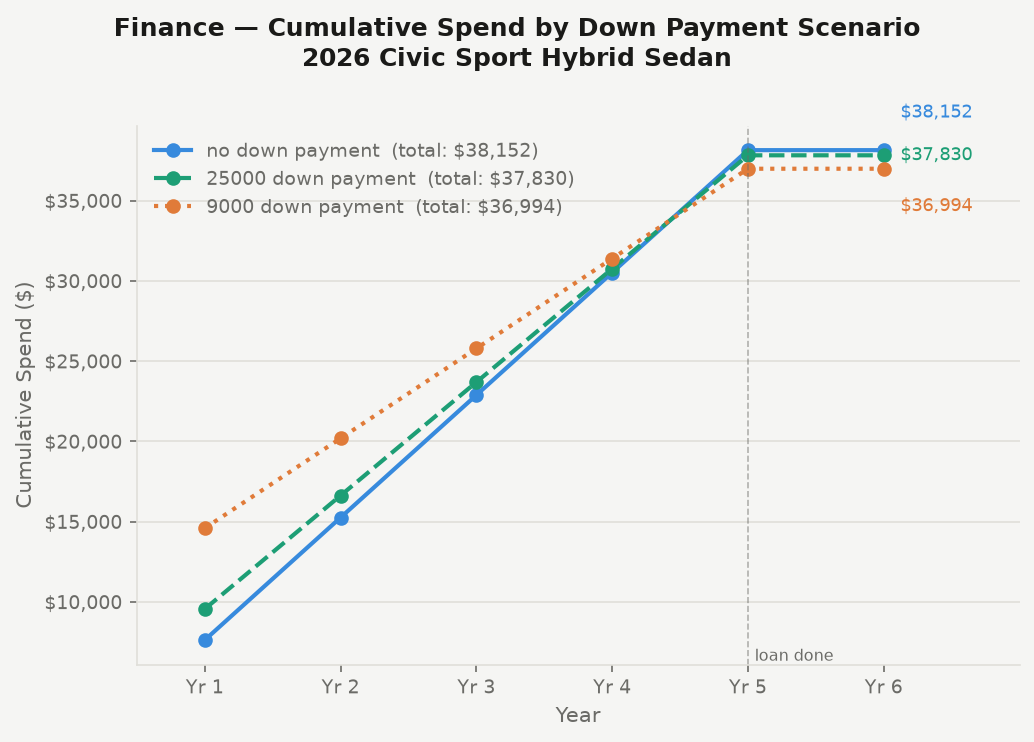
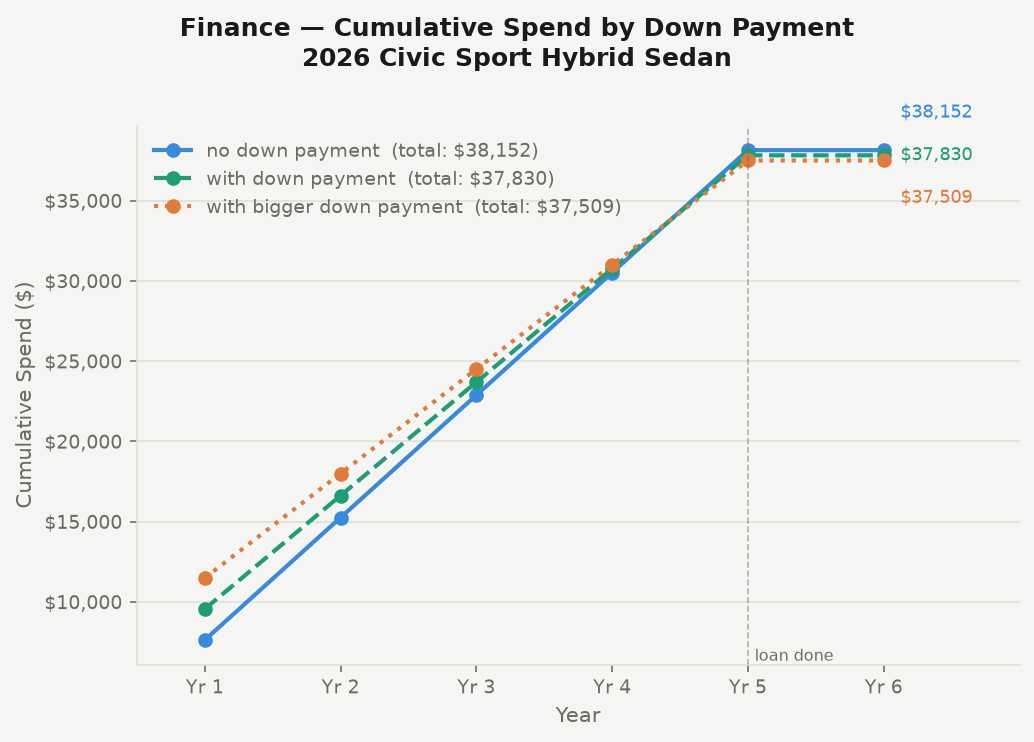
final data, added mileage analysis for a little extra

diff --git a/plotFinances.py b/plotFinances.py
@@ -1,14 +1,12 @@
 """
 plot_finance_scenarios.py
 
-Reads output/yearly_schedule.csv and plots finance cumulative spend over 6 years
-for each scenario, one graph per car model.
+Produces two figures per car model:
+  1. Finance cumulative spend — first 3 scenarios (down payment comparison)
+  2. Lease cumulative spend  — last 2 scenarios (mileage comparison)
 
 Usage:
     python plot_finance_scenarios.py
-
-Output:
-    output/finance_scenarios.png
 """
 
 import csv
@@ -38,52 +36,62 @@ def load_csv(path):
 BASE = os.path.join(os.path.dirname(__file__), "output")
 schedule = load_csv(os.path.join(BASE, "yearly_schedule.csv"))
 
-# ── Organise ──────────────────────────────────────────────────────────────────
+# ── Config ────────────────────────────────────────────────────────────────────
 
-models    = list(dict.fromkeys(r["Model"]    for r in schedule))
-scenarios = list(dict.fromkeys(r["Scenario"] for r in schedule))
+models = list(dict.fromkeys(r["Model"] for r in schedule))
+all_scenarios = list(dict.fromkeys(r["Scenario"] for r in schedule))
+
+# First 3 scenarios → finance comparison
+FINANCE_SCENARIOS = all_scenarios[:3]
+# Last 2 scenarios → lease mileage comparison
+LEASE_SCENARIOS = all_scenarios[-2:]
 
 COLORS = ["#378ADD", "#1D9E75", "#E07B39"]
 STYLES = ["-", "--", ":"]
 
-# ── Plot ──────────────────────────────────────────────────────────────────────
-
-BG   = "#F5F5F3"
-GRID = "#E0DFD9"
-TEXT = "#1A1A18"
+BG    = "#F5F5F3"
+GRID  = "#E0DFD9"
+TEXT  = "#1A1A18"
 MUTED = "#6B6B67"
 
-for model in models:
+# ── Helpers ───────────────────────────────────────────────────────────────────
+
+def get_rows(model, scenario):
+    return sorted(
+        [r for r in schedule if r["Model"] == model and r["Scenario"] == scenario],
+        key=lambda r: r["Year"]
+    )
+
+def plot_figure(model, scenario_list, y_col, title_prefix, file_suffix, vline_label=None, vline_x=None):
     fig, ax = plt.subplots(figsize=(7, 5), facecolor=BG)
     ax.set_facecolor(BG)
+    fig.suptitle(f"{title_prefix}\n{model}", fontsize=12, fontweight="600", color=TEXT)
 
-    fig.suptitle(f"Finance — Cumulative Spend by Down Payment Scenario\n{model}",
-                 fontsize=12, fontweight="600", color=TEXT)
+    n = len(scenario_list)
+    offsets = [18, 0, -18][:n]
 
-    for i, scenario in enumerate(scenarios):
-        rows = sorted(
-            [r for r in schedule if r["Model"] == model and r["Scenario"] == scenario],
-            key=lambda r: r["Year"]
-        )
+    for i, scenario in enumerate(scenario_list):
+        rows = get_rows(model, scenario)
+        if not rows:
+            continue
         years = [int(r["Year"]) for r in rows]
-        cumulative = [r["FinanceCumulative"] for r in rows]
-        final_total = cumulative[-1]
+        values = [r[y_col] for r in rows]
+        final = values[-1]
 
-        ax.plot(years, cumulative,
+        ax.plot(years, values,
                 color=COLORS[i], linestyle=STYLES[i], linewidth=2,
                 marker="o", markersize=6,
-                label=f"{scenario}  (total: ${final_total:,.0f})")
+                label=f"{scenario}  (total: ${final:,.0f})")
 
-        offsets = [18, 0, -18]
-        ax.annotate(f"${final_total:,.0f}",
-                    xy=(years[-1], final_total),
+        ax.annotate(f"${final:,.0f}",
+                    xy=(years[-1], final),
                     xytext=(8, offsets[i]), textcoords="offset points",
                     fontsize=8.5, color=COLORS[i], va="center")
 
-    # Mark loan payoff at year 5
-    ax.axvline(x=5, color=MUTED, linewidth=0.8, linestyle="--", alpha=0.5)
-    ymin = ax.get_ylim()[0]
-    ax.text(5.05, ymin, "loan done", fontsize=7.5, color=MUTED, va="bottom")
+    if vline_x:
+        ax.axvline(x=vline_x, color=MUTED, linewidth=0.8, linestyle="--", alpha=0.5)
+        ax.text(vline_x + 0.05, ax.get_ylim()[0], vline_label or "",
+                fontsize=7.5, color=MUTED, va="bottom")
 
     ax.set_xlabel("Year", fontsize=10, color=MUTED)
     ax.set_ylabel("Cumulative Spend ($)", fontsize=10, color=MUTED)
@@ -98,8 +106,32 @@ for model in models:
     ax.legend(fontsize=9, framealpha=0, labelcolor=MUTED, loc="upper left")
 
     safe_name = model.replace(" ", "_").replace("/", "_")
-    out_path = os.path.join(BASE, f"finance_scenarios_{safe_name}.png")
+    out_path = os.path.join(BASE, f"{file_suffix}_{safe_name}.png")
     plt.tight_layout()
     plt.savefig(out_path, dpi=150, bbox_inches="tight", facecolor=BG)
     print(f"Saved → {out_path}")
     plt.show()
+    plt.close()
+
+# ── Generate figures ──────────────────────────────────────────────────────────
+
+for model in models:
+    # Figure 1: Finance cumulative — first 3 scenarios
+    plot_figure(
+        model=model,
+        scenario_list=FINANCE_SCENARIOS,
+        y_col="FinanceCumulative",
+        title_prefix="Finance — Cumulative Spend by Down Payment",
+        file_suffix="finance_scenarios",
+        vline_x=5,
+        vline_label="loan done",
+    )
+
+    # Figure 2: Lease cumulative — last 2 scenarios (mileage comparison)
+    plot_figure(
+        model=model,
+        scenario_list=LEASE_SCENARIOS,
+        y_col="LeaseCumulative",
+        title_prefix="Lease — Cumulative Spend by Mileage Tier",
+        file_suffix="lease_mileage",
+    )

diff --git a/RetrieveData.py b/RetrieveData.py
@@ -141,13 +141,13 @@ def get_anchor(session, model_name, model_id, annual_mileage):
 
 def estimate_lease2(msrp, down_payment, acquisition_fee, money_factor, residual_pct, taxrate, msrp_inflation=0.04, term=36):
     future_msrp = msrp * (1 + msrp_inflation) ** (term / 12)
-    future_cap_cost = future_msrp - down_payment + acquisition_fee
+    future_cap_cost = future_msrp + acquisition_fee
     future_residual = future_msrp * residual_pct
     depreciation = (future_cap_cost - future_residual) / term
     finance_fee = (future_cap_cost + future_residual) * money_factor
     base_payment = depreciation + finance_fee
     monthly = round(base_payment * (1 + taxrate / 100), 2)
-    signing = round(monthly + down_payment + acquisition_fee, 2)
+    signing = round(monthly + acquisition_fee, 2)
     return {
         "FutureMSRP": round(future_msrp, 2),
         "FutureResidual": round(future_residual, 2),